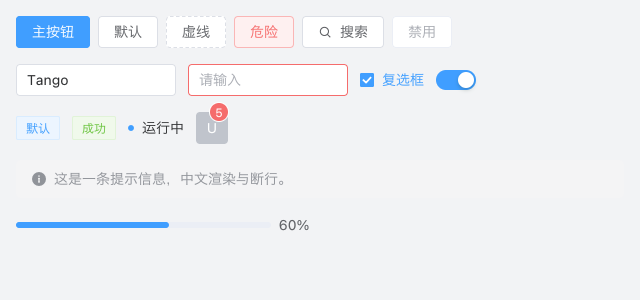
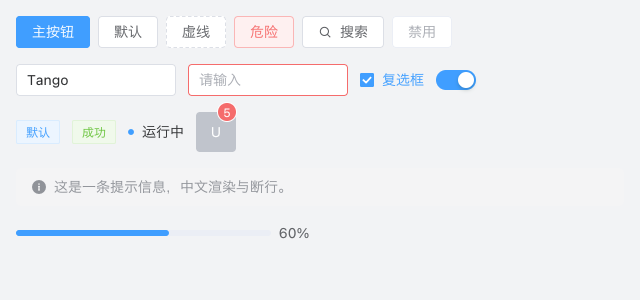
fix(theme): align Element component sizes with Element Plus
Element's component tokens used Ant's sizes where Element Plus differs
(theme-chalk var.scss and input-number.scss, checked 2026-11-13):

- Input: 12/14/14 px text (small/default/large) and a 15px large inset
  (16px with the border), not Ant's 14/14/16 and 11.
- InputNumber: 150px wide with 32px step buttons, and − / + at the sides
  by default as el-input-number does; ControlsPosition("right") and
  ConfigProvider defaults still pick the stacked buttons.
- Avatar: 24/40/56 px with 14px text.
- Pagination: 24px buttons when small (the comment said el-pagination
  had one size).
- Tour: 520px wide with 12px padding.

Ant and shadcn are unchanged. basic_element.png re-recorded: the avatar
is 40px now. TestElementPlusComponentSizes and
TestInputNumberControlsDefaultByFlavor pin the values.

The ui-window demo's theme switch now offers shadcn and a dark switch
for every design system (it had Ant, Ant dark and Element only).

diff --git a/examples/ui-window/main.go b/examples/ui-window/main.go
@@ -34,6 +34,7 @@ var (
 	runner *ui.Runner
 
 	themeName = "跟随系统" // uihost follows the system's light/dark by default
+	darkMode  bool
 	tab       = "form"
 
 	name, email, city, bio string
@@ -50,14 +51,39 @@ var (
 	selected []int
 )
 
-func themeFor(n string) *theme.Theme {
+// themeFor builds the chosen design system, light or dark.
+func themeFor(n string, dark bool) *theme.Theme {
 	switch n {
 	case "Element Plus":
+		if dark {
+			return theme.ElementPlus(theme.Dark())
+		}
 		return theme.ElementPlus()
-	case "暗色":
+	case "shadcn":
+		if dark {
+			return theme.Shadcn(theme.Dark())
+		}
+		return theme.Shadcn()
+	}
+	if dark {
 		return theme.AntDesign(theme.Dark())
 	}
 	return theme.AntDesign()
+}
+
+// applyTheme switches the window to the chosen theme after this frame:
+// following the system (Ant, light or dark as the system is), or a fixed
+// design system with the dark switch.
+func applyTheme() {
+	name, dark := themeName, darkMode
+	app.Post(func() {
+		if name == "跟随系统" {
+			uihost.FollowSystemTheme(runner, true)
+			return
+		}
+		uihost.FollowSystemTheme(runner, false) // a fixed theme from now on
+		runner.SetTheme(themeFor(name, dark))
+	})
 }
 
 func page(c *ui.Context) {
@@ -66,16 +92,18 @@ func page(c *ui.Context) {
 			ui.Row(c, func() {
 				ui.Title(c, "Tango 自绘 UI", 3)
 				ui.Spacer(c)
-				if ui.Segmented(c, &themeName, ui.Opts("跟随系统", "Ant Design", "Element Plus", "暗色")).Changed() {
-					name := themeName
-					app.Post(func() { // apply after this frame
-						if name == "跟随系统" {
-							uihost.FollowSystemTheme(runner, true)
-							return
-						}
-						uihost.FollowSystemTheme(runner, false) // a fixed theme from now on
-						runner.SetTheme(themeFor(name))
-					})
+				if ui.Segmented(c, &themeName, ui.Opts("跟随系统", "Ant Design", "Element Plus", "shadcn")).Changed() {
+					applyTheme()
+				}
+				ui.Text(c, "暗色").Tertiary()
+				// While following the system the switch shows the system's
+				// choice; turning it picks a fixed Ant theme.
+				darkMode = c.Theme.Dark
+				if ui.Switch(c, &darkMode).A11yLabel("暗色").Changed() {
+					if themeName == "跟随系统" {
+						themeName = "Ant Design"
+					}
+					applyTheme()
 				}
 			}, layout.Middle(), layout.Gap(12))
 

diff --git a/ui/theme/element_sizes_test.go b/ui/theme/element_sizes_test.go
@@ -1,0 +1,48 @@
+package theme
+
+import "testing"
+
+// TestElementPlusComponentSizes: Element's component token sizes follow
+// Element Plus theme-chalk (packages/theme-chalk/src/common/var.scss and
+// input-number.scss, checked 2026-11-13): $input-font-size 12/14/14,
+// $input-padding-horizontal 8/12/16 (with the 1px border), $avatar-size
+// 24/40/56 with 14px text, $pagination button height 32 and 24 when small,
+// $tour width 520 and padding 12, $input-number-width 150 with step
+// buttons as wide as the control is high. Ant and shadcn keep their own.
+func TestElementPlusComponentSizes(t *testing.T) {
+	for _, dark := range []bool{false, true} {
+		var opts []Option
+		if dark {
+			opts = append(opts, Dark())
+		}
+		k := ElementPlus(opts...).Components
+		in := k.Input
+		if in.InputFontSizeSM != 12 || in.InputFontSize != 14 || in.InputFontSizeLG != 14 ||
+			in.PaddingInlineSM != 7 || in.PaddingInline != 11 || in.PaddingInlineLG != 15 {
+			t.Errorf("dark=%v input: font %v/%v/%v padding %v/%v/%v", dark,
+				in.InputFontSizeSM, in.InputFontSize, in.InputFontSizeLG, in.PaddingInlineSM, in.PaddingInline, in.PaddingInlineLG)
+		}
+		av := k.Avatar
+		if av.ContainerSizeSM != 24 || av.ContainerSize != 40 || av.ContainerSizeLG != 56 ||
+			av.TextFontSizeSM != 14 || av.TextFontSize != 14 || av.TextFontSizeLG != 14 {
+			t.Errorf("dark=%v avatar: %+v", dark, av)
+		}
+		if pg := k.Pagination; pg.ItemSize != 32 || pg.ItemSizeSM != 24 {
+			t.Errorf("dark=%v pagination: %v / %v", dark, pg.ItemSize, pg.ItemSizeSM)
+		}
+		if tr := k.Tour; tr.Width != 520 || tr.PanelPadding != 12 {
+			t.Errorf("dark=%v tour: %v / %v", dark, tr.Width, tr.PanelPadding)
+		}
+		if n := k.InputNumber; n.ControlWidth != 150 || n.HandleWidth != 32 {
+			t.Errorf("dark=%v input number: %v / %v", dark, n.ControlWidth, n.HandleWidth)
+		}
+	}
+	// The others are unchanged: Ant sizes (shadcn size-8 avatars match).
+	for _, th := range []*Theme{AntDesign(), Shadcn()} {
+		k := th.Components
+		if k.Avatar.ContainerSize != 32 || k.Avatar.ContainerSizeLG != 40 || k.InputNumber.ControlWidth != 90 || k.Tour.Width != 320 {
+			t.Errorf("%v: avatar %v/%v input number %v tour %v", th.Flavor,
+				k.Avatar.ContainerSize, k.Avatar.ContainerSizeLG, k.InputNumber.ControlWidth, k.Tour.Width)
+		}
+	}
+}

diff --git a/ui/input.go b/ui/input.go
@@ -554,7 +554,7 @@ type InputNumberW struct {
 
 	formatter func(string) string // Formatter
 	parser    func(string) string // Parser
-	ctrlPos   string              // ControlsPosition: "right" (default) | "sides"
+	ctrlPos   string              // ControlsPosition: "sides", or "right" / "" (stacked at the right)
 	wheel     bool                // Wheel
 	sval      *string             // StringMode
 	variant   string              // Variant
@@ -714,8 +714,9 @@ func (w *InputNumberW) Prefix(ic *icon.Icon) *InputNumberW { w.prefix = ic; retu
 func (w *InputNumberW) PrefixText(s string) *InputNumberW { w.prefixTxt = s; return w }
 
 // ControlsPosition places the step buttons: "right" (stacked at the right,
-// Ant and Element controls-position="right", the default) or "sides"
-// (− before and + after the value, Element's default look).
+// Ant's look and Element's controls-position="right") or "sides" (− before
+// and + after the value). The default follows the design system: "sides"
+// under Element (el-input-number's default), "right" otherwise.
 func (w *InputNumberW) ControlsPosition(pos string) *InputNumberW { w.ctrlPos = pos; return w }
 
 // Wheel lets the mouse wheel step the value while the field has focus
@@ -735,6 +736,9 @@ func (w *InputNumberW) StringMode(s *string) *InputNumberW { w.sval = s; return 
 // "controlsPosition", "variant" (string), "wheel" (bool).
 func (w *InputNumberW) configDefaults() {
 	c := w.c
+	if w.ctrlPos == "" && w.nth.Flavor == theme.Element {
+		w.ctrlPos = "sides" // el-input-number puts − and + at the sides by default
+	}
 	w.ctrlPos = propString(c, "InputNumber", "controlsPosition", w.ctrlPos)
 	w.variant = propString(c, "InputNumber", "variant", w.variant)
 	w.wheel = propBool(c, "InputNumber", "wheel", w.wheel)

diff --git a/ui/inputnumber_flavor_test.go b/ui/inputnumber_flavor_test.go
@@ -1,0 +1,46 @@
+package ui
+
+import (
+	"testing"
+
+	"github.com/tangoui/tango/ui/theme"
+)
+
+// TestInputNumberControlsDefaultByFlavor: el-input-number puts − and + at
+// the sides by default, so Element's InputNumber does (150px wide, like
+// the el-input-number default width); ControlsPosition("right") and
+// ConfigProvider Defaults still choose the stacked buttons. Ant and shadcn
+// keep the stacked buttons.
+func TestInputNumberControlsDefaultByFlavor(t *testing.T) {
+	for _, c := range []struct {
+		th   *theme.Theme
+		want string
+	}{
+		{theme.ElementPlus(), "sides"},
+		{theme.ElementPlus(theme.Dark()), "sides"},
+		{theme.AntDesign(), ""},
+		{theme.Shadcn(), ""},
+	} {
+		v := 1.0
+		var def, right, cfg *InputNumberW
+		d := p2dDriver(c.th, func(cx *Context) {
+			def = InputNumber(cx, &v).A11yLabel("a")
+			right = InputNumber(cx, &v).ControlsPosition("right").A11yLabel("b")
+			ConfigProvider(cx).Defaults("InputNumber", Props{"controlsPosition": "right"}).Body(func() {
+				cfg = InputNumber(cx, &v).A11yLabel("c")
+			})
+		})
+		if def.ctrlPos != c.want {
+			t.Errorf("%v: default controls %q, want %q", c.th.Flavor, def.ctrlPos, c.want)
+		}
+		if right.ctrlPos != "right" || cfg.ctrlPos != "right" {
+			t.Errorf("%v: explicit %q, config %q, want right", c.th.Flavor, right.ctrlPos, cfg.ctrlPos)
+		}
+		if c.want == "sides" {
+			if w := def.box.abs.W; w != 150 {
+				t.Errorf("%v: sides width %v, want 150", c.th.Flavor, w)
+			}
+		}
+		_ = d
+	}
+}

diff --git a/ui/theme/comp_input.go b/ui/theme/comp_input.go
@@ -34,8 +34,8 @@ type InputToken struct {
 
 func deriveInput(t *Theme) InputToken {
 	k := InputToken{
-		// The text inset is the same in every design system (Ant's 11px,
-		// 7px when small).
+		// Ant's text inset (11px, 7px when small); Element widens the large
+		// one below.
 		PaddingInline: 11, PaddingInlineSM: 7, PaddingInlineLG: 11,
 		InputFontSize: t.FontSize, InputFontSizeSM: t.FontSize, InputFontSizeLG: t.FontSizeLG,
 		Bg: t.ControlBg, ActiveBg: t.ControlBg, HoverBg: t.ControlBg,
@@ -46,7 +46,14 @@ func deriveInput(t *Theme) InputToken {
 		ErrorActiveShadowColor: t.ControlOutlineError, WarningActiveShadowColor: t.ControlOutlineWarning,
 		Shadow: t.InputShadow,
 	}
-	if t.Flavor == StyleShadcn {
+	switch t.Flavor {
+	case Element:
+		// el-input ($input-font-size, $input-padding-horizontal in
+		// theme-chalk var.scss): 12 / 14 / 14 px text, 8 / 12 / 16 px
+		// padding including the 1px border.
+		k.InputFontSizeSM, k.InputFontSizeLG = 12, t.FontSize
+		k.PaddingInlineLG = 15
+	case StyleShadcn:
 		// new-york: text-sm at every size, no hover border.
 		k.InputFontSizeLG = t.FontSize
 		k.HoverBorderColor = t.Border

diff --git a/ui/r2_tokens_test.go b/ui/r2_tokens_test.go
@@ -241,10 +241,12 @@ func r2Handles(d *Driver) *node {
 // TestR2InputNumberHandleArrows: the stacked step arrows of Ant / Element
 // sit inside their handles (they were drawn from the step nodes' rects
 // before those were laid out for the frame, i.e. at the window origin).
+// Element's default puts the buttons at the sides, so the stacked ones are
+// asked for explicitly.
 func TestR2InputNumberHandleArrows(t *testing.T) {
 	for _, th := range []*theme.Theme{theme.AntDesign(), theme.ElementPlus(), theme.Shadcn()} {
 		d := NewDriver(func(c *Context) {
-			Column(c, func() { v := 3.0; InputNumber(c, &v) }, layout.Pad(40))
+			Column(c, func() { v := 3.0; InputNumber(c, &v).ControlsPosition("right") }, layout.Pad(40))
 		}, DriverOptions{Width: 400, Height: 200, Theme: th})
 		d.Settle()
 		d.Move(geom.Pt(60, 56))

diff --git a/ui/theme/comp_avatar.go b/ui/theme/comp_avatar.go
@@ -17,12 +17,19 @@ type AvatarToken struct {
 }
 
 func deriveAvatar(t *Theme) AvatarToken {
-	// The same sizes in every design system: 24 / 32 / 40 px with 12 / 14 /
-	// 18 px initials.
-	return AvatarToken{
+	// Ant and shadcn (size-8): 24 / 32 / 40 px with 12 / 14 / 18 px
+	// initials.
+	k := AvatarToken{
 		ContainerSize: 32, ContainerSizeSM: 24, ContainerSizeLG: 40,
 		TextFontSize: 14, TextFontSizeSM: 12, TextFontSizeLG: 18,
 		GroupSpace: 4, GroupOverlapping: -8, GroupBorderColor: t.BgContainer,
 		Bg: t.AvatarBg, Color: t.AvatarText,
 	}
+	if t.Flavor == Element {
+		// el-avatar ($avatar-size, $avatar in theme-chalk var.scss):
+		// 24 / 40 / 56 px, 14px text at every size.
+		k.ContainerSize, k.ContainerSizeLG = 40, 56
+		k.TextFontSizeSM, k.TextFontSizeLG = 14, 14
+	}
+	return k
 }

diff --git a/ui/t2a_tokens_test.go b/ui/t2a_tokens_test.go
@@ -224,7 +224,13 @@ func TestT2aTokenDefaults(t *testing.T) {
 		}
 		// Tour.
 		tr := k.Tour
-		if tr.Width != 320 || tr.Bg != th.BgElevated || tr.PrimaryBg != th.Primary.Base || tr.MaskColor != th.BgMask ||
+		// el-tour is 520px wide with 12px padding ($tour in Element Plus
+		// theme-chalk var.scss); Ant's panel is 320 / 16.
+		wantW, wantPad := float32(320), float32(16)
+		if el {
+			wantW, wantPad = 520, 12
+		}
+		if tr.Width != wantW || tr.PanelPadding != wantPad || tr.Bg != th.BgElevated || tr.PrimaryBg != th.Primary.Base || tr.MaskColor != th.BgMask ||
 			(el && (tr.TitleFontSize != 16 || tr.TitleFontWeight != 0 || tr.Radius != th.Radius)) ||
 			(!el && (tr.TitleFontWeight != th.FontWeightStrong || tr.Radius != th.RadiusLG)) {
 			t.Errorf("%s tour: %+v", name, tr)

diff --git a/ui/theme/comp_pagination.go b/ui/theme/comp_pagination.go
@@ -36,9 +36,10 @@ func derivePagination(t *Theme) PaginationToken {
 	}
 	switch t.Flavor {
 	case Element:
-		// el-pagination keeps one size; without background the current
-		// page is only colored, the hovered one too.
-		k.ItemSize, k.ItemSizeSM = 32, 32
+		// el-pagination: 32px buttons, 24px when small ($pagination
+		// button-height(-small) in theme-chalk var.scss); without
+		// background the current page is only colored, the hovered one too.
+		k.ItemSize, k.ItemSizeSM = 32, 24
 		k.ItemHoverBg, k.ItemHoverColor = Color{}, t.Primary.Base
 		k.ItemActiveBg, k.ItemActiveBorderColor, k.ItemActiveBgDisabled = Color{}, Color{}, Color{}
 		k.ItemFilledColor = t.TextSecondary

diff --git a/ui/theme/comp_inputnumber.go b/ui/theme/comp_inputnumber.go
@@ -29,7 +29,13 @@ func deriveInputNumber(t *Theme) InputNumberToken {
 		SideHandleBg:      t.FillTertiary, SideHandleColor: t.TextSecondary, SideHandleHoverColor: t.Primary.Base,
 		SideHandleFontSize: 14,
 	}
-	if t.Flavor == StyleShadcn {
+	switch t.Flavor {
+	case Element:
+		// el-input-number: 150px wide ($input-number-width), step buttons
+		// as wide as the control is high (32px). Its default puts them at
+		// the sides (InputNumber's ControlsPosition default).
+		k.ControlWidth, k.HandleWidth = 150, 32
+	case StyleShadcn:
 		// Always visible lucide chevrons that turn foreground on an
 		// accent background under the pointer.
 		k.HandleFontSize = 12

diff --git a/ui/theme/comp_tour.go b/ui/theme/comp_tour.go
@@ -41,7 +41,9 @@ func deriveTour(t *Theme) TourToken {
 		CloseBtnSize: 22, CloseIconSize: 14, MaskColor: t.BgMask, HoleRadius: t.Radius,
 	}
 	if t.Flavor == Element {
-		// el-tour: 16px regular title, base radius.
+		// el-tour ($tour in theme-chalk var.scss): 520px wide, 12px
+		// padding, 16px regular title, base radius.
+		k.Width, k.PanelPadding = 520, 12
 		k.TitleFontSize, k.TitleFontWeight, k.Radius = 16, 0, t.Radius
 	}
 	return k
